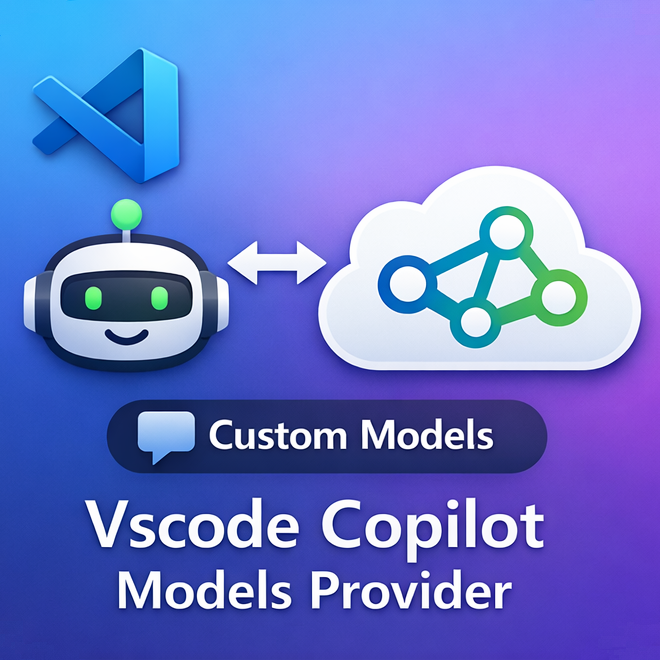
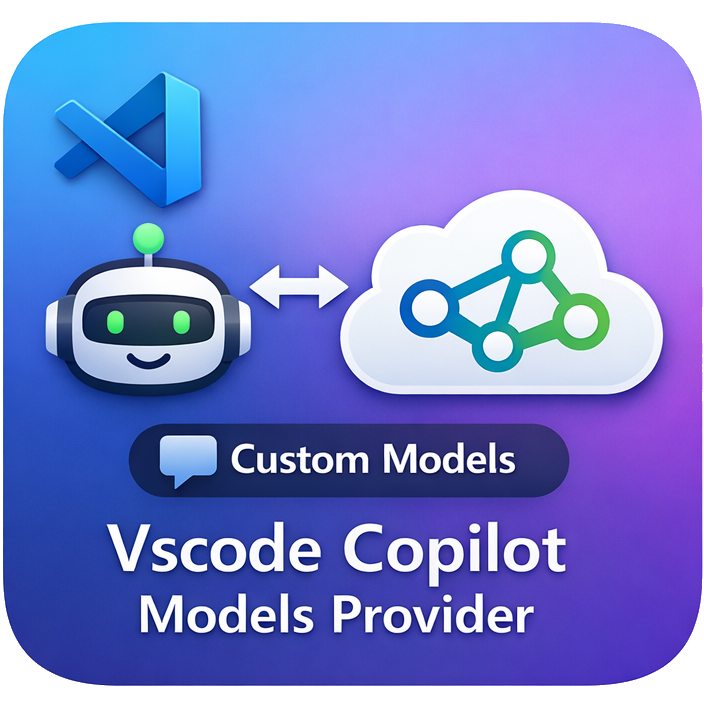
chore: 完善扩展发布元数据并更新 README 远程预览资源
- package.json 增加扩展图标与仓库地址
- 同步提升版本号至 0.0.24
- README 中的界面截图改为 GitHub raw 远程链接，提升展示稳定性
- 更新扩展图标资源文件

Changed region(s): [[0.0, 0.0, 1.0, 1.0], [0.5455, 0.2424, 1.0, 0.5758], [0.5455, 0.303, 0.6364, 0.3333]]

diff --git a/README_en.md b/README_en.md
@@ -8,4 +8,4 @@ The free quota in VS Code Copilot is limited. This extension lets you add custom
 - It currently supports only third-party model services that are compatible with the OpenAI Chat Completions protocol.
 - After enabling `Use for Git Commit Message`, the commit message generation button will offer two options: Copilot and the model provided by this extension.
 
-![English UI Preview](media/image_en.png)
+![English UI Preview](https://raw.githubusercontent.com/TangTangH/vscode-copilot-model-provider/main/media/image_en.png)

diff --git a/README.md b/README.md
@@ -8,4 +8,4 @@ VS Code 的 Copilot 免费额度太少了，这个插件可以新增自定义模
 - 目前只兼容 OpenAI Chat Completions 协议的第三方模型服务。
 - 启用【作为 Git 提交信息模型】之后，生成 Git 提交信息按钮也会有两个选项，一个是 Copilot，一个是由插件提供功能。
 
-![中文界面预览](media/image_cn.png)
+![中文界面预览](https://raw.githubusercontent.com/TangTangH/vscode-copilot-model-provider/main/media/image_cn.png)
